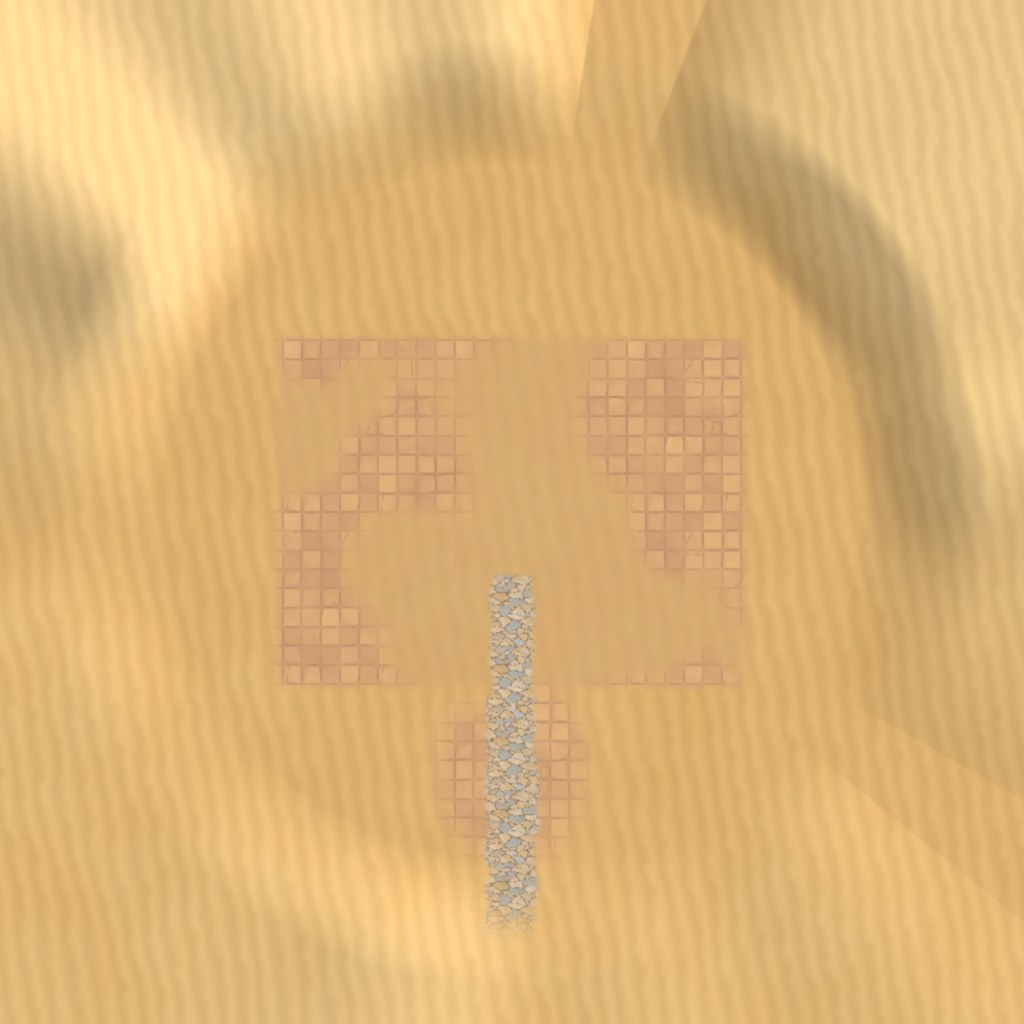
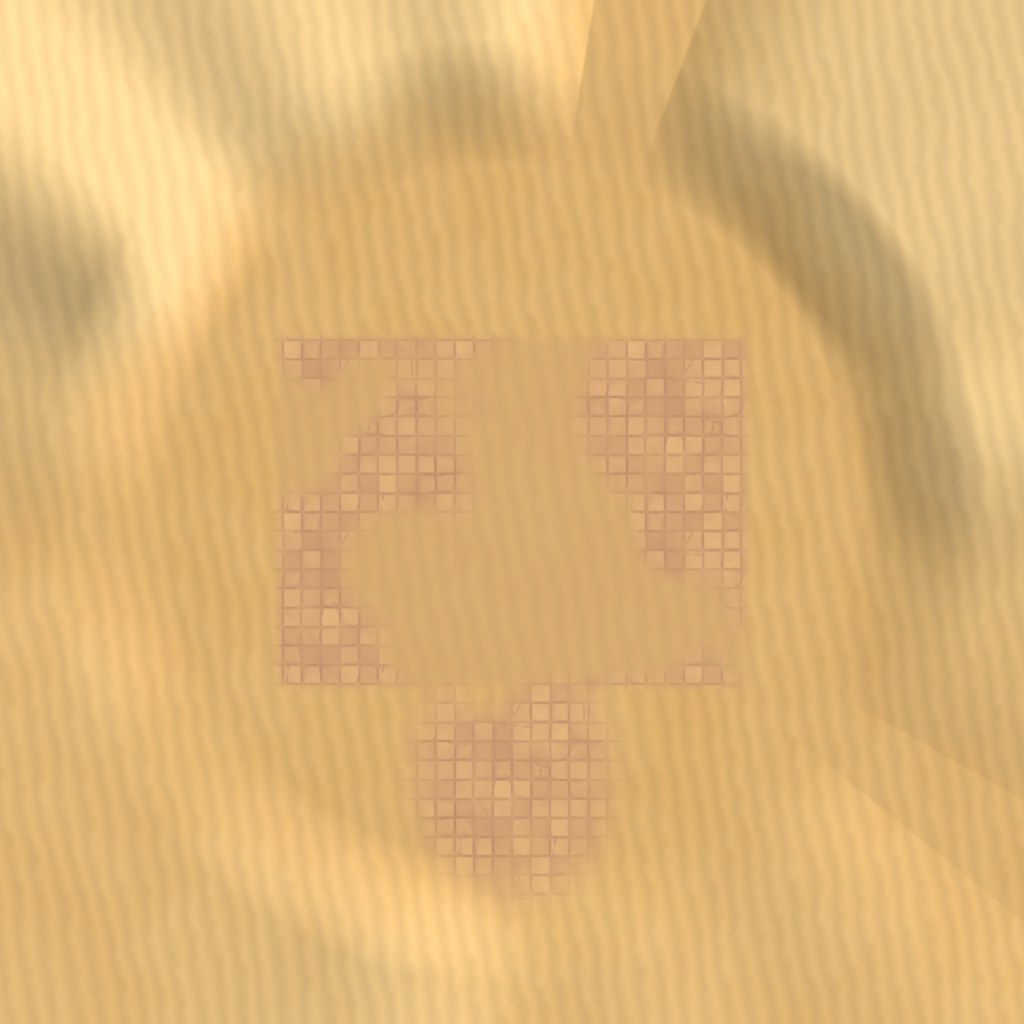
Scene 1: no stone path; Motri's clay slabs in front of the gate fade into the sand
Claude-Session: https://claude.ai/code/session_01UeFQfPifcpFvNE5bn57atj

Changed region(s): [[0.4688, 0.5625, 0.5312, 0.9062]]

diff --git a/quest-native/tools/blender/build_scene1.py b/quest-native/tools/blender/build_scene1.py
@@ -8,7 +8,7 @@ Built from:
   assets/character/shaib.glb, assets/creatures/cat.glb
 and a ground baked here: sand dunes round the edge (after Motri's DunesField: ridge
 gaussians, sand from #d9a65e to #f4d397 with ripples), slab patches fading into the sand in
-the courtyard (Motri's floor: slabs texture x noise) and stone-paved paths.
+the courtyard (Motri's floor: slabs texture x noise) 
 
 Real metres; the game scales the whole diorama down onto a table. Front (-Y in Blender) is
 the side the player first sees. Writes assets/world/scene1/scene1.glb.
@@ -94,20 +94,10 @@ def bake_ground(n=1024):
     sy = ((Y / 5.71) % 1 * slabs.shape[0]).astype(int) % slabs.shape[0]
     st = slabs[sy, sx]
     patch = noise2(n, 7, (6, 12, 24), 1.7)
-    apron = smooth(0, 1.5, 3.2 - np.hypot(X - 0.0, (Y + GY + 2.2) * 0.8))  # outside the gate
+    apron = smooth(0, 1.8, 3.8 - np.hypot(X * 0.9, (Y + GY + 2.4) * 0.7))  # outside the gate
     slab_mask = np.clip(court * smooth(0.5, 0.68, patch) + apron * smooth(0.35, 0.6, patch), 0, 1) * 0.92
     slab_col = np.array([0xa8, 0x77, 0x62], float) * (1 - st[..., None]) + np.array([0xff, 0xcf, 0x8b], float) * st[..., None]
     col = col * (1 - slab_mask[..., None]) + slab_col * slab_mask[..., None]
-    # stone-paved paths: gate -> house door, and gate -> front edge
-    pave = np.asarray(Image.open(os.path.join(MOTRI, "stone-paving.png")).convert("RGB"), float)
-    px = ((X / 2.4) % 1 * pave.shape[1]).astype(int) % pave.shape[1]
-    py = ((Y / 2.4) % 1 * pave.shape[0]).astype(int) % pave.shape[0]
-    pv = pave[py, px]
-    edge = (noise2(n, 11, (32, 64), 1.3) - 0.5) * 0.35
-    inner = smooth(0.0, 0.25, 0.85 + edge - np.abs(X)) * smooth(0, 0.2, Y + GY + 0.3) * smooth(0, 0.2, -2.0 - Y)
-    outer = smooth(0.0, 0.3, 1.0 + edge - np.abs(X)) * smooth(0, 0.2, -GY + 0.2 - Y) * smooth(0, 2.0, Y + 14.5)
-    path = np.clip(inner + outer, 0, 1)
-    col = col * (1 - path[..., None]) + pv * path[..., None]
     img = Image.fromarray(np.clip(col, 0, 255).astype(np.uint8)).filter(ImageFilter.SMOOTH)
     path_out = os.path.join(TEX, "scene1_ground.jpg")
     img.save(path_out, quality=88)
